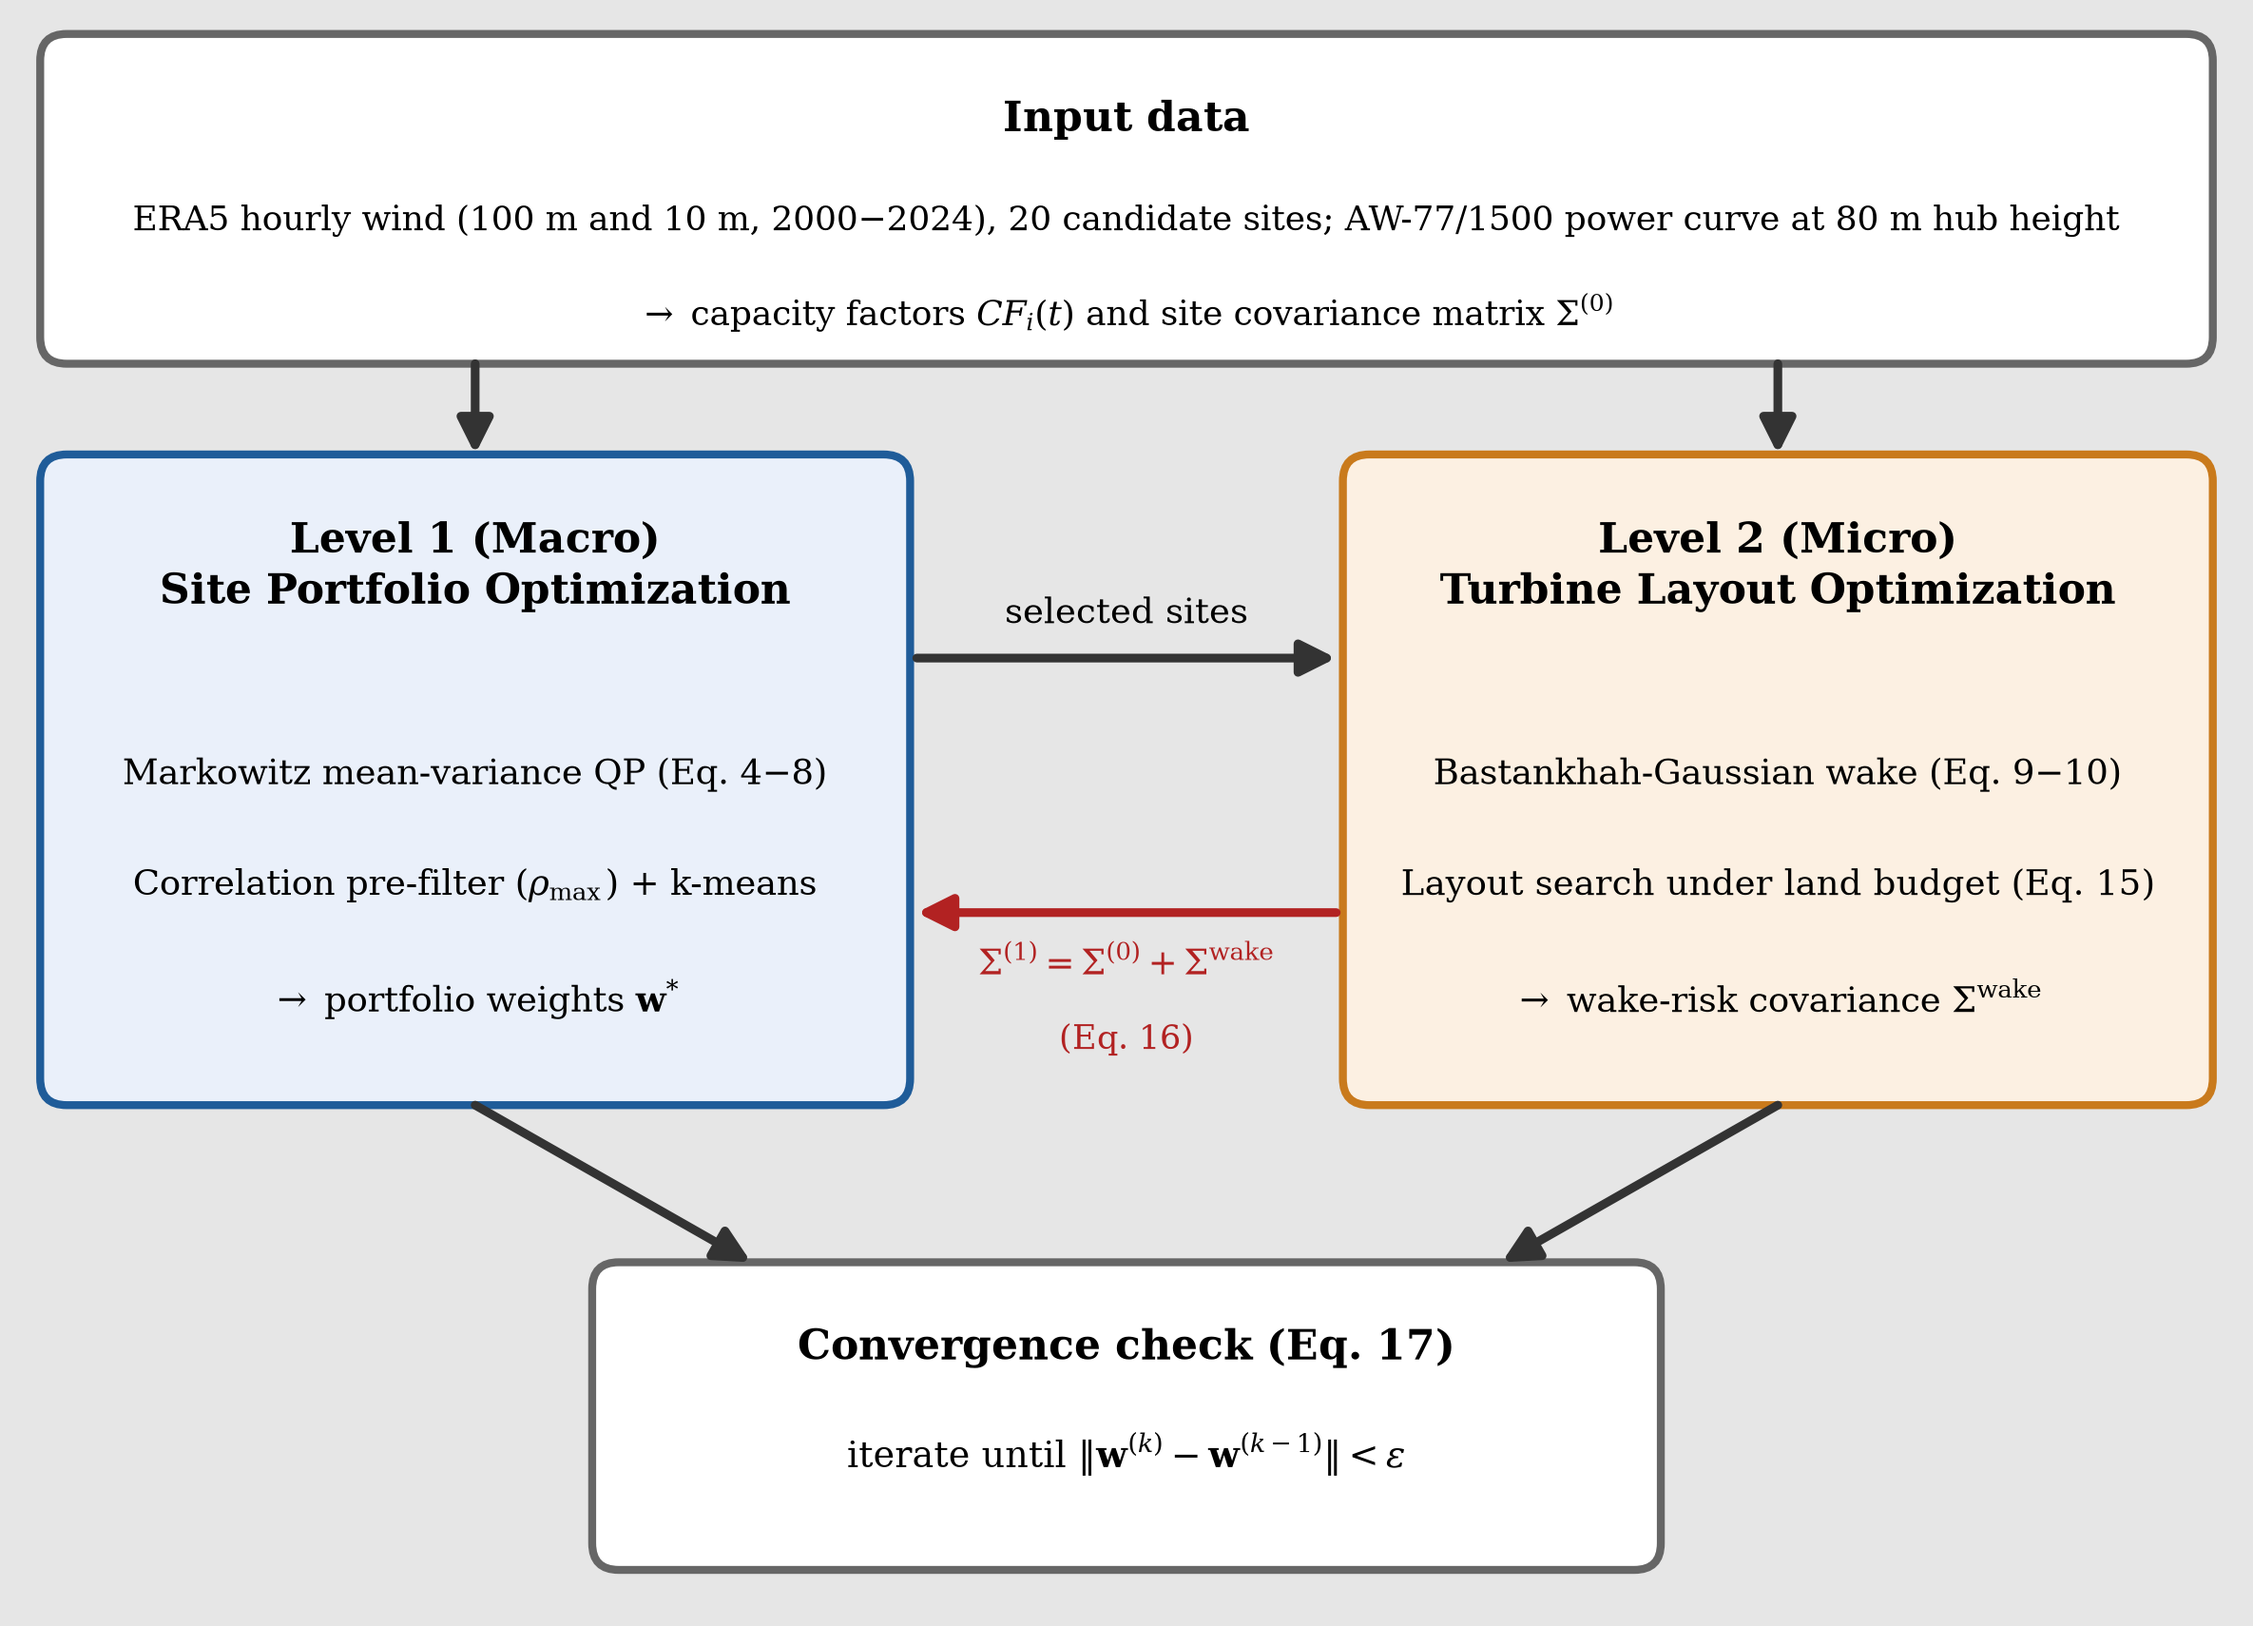
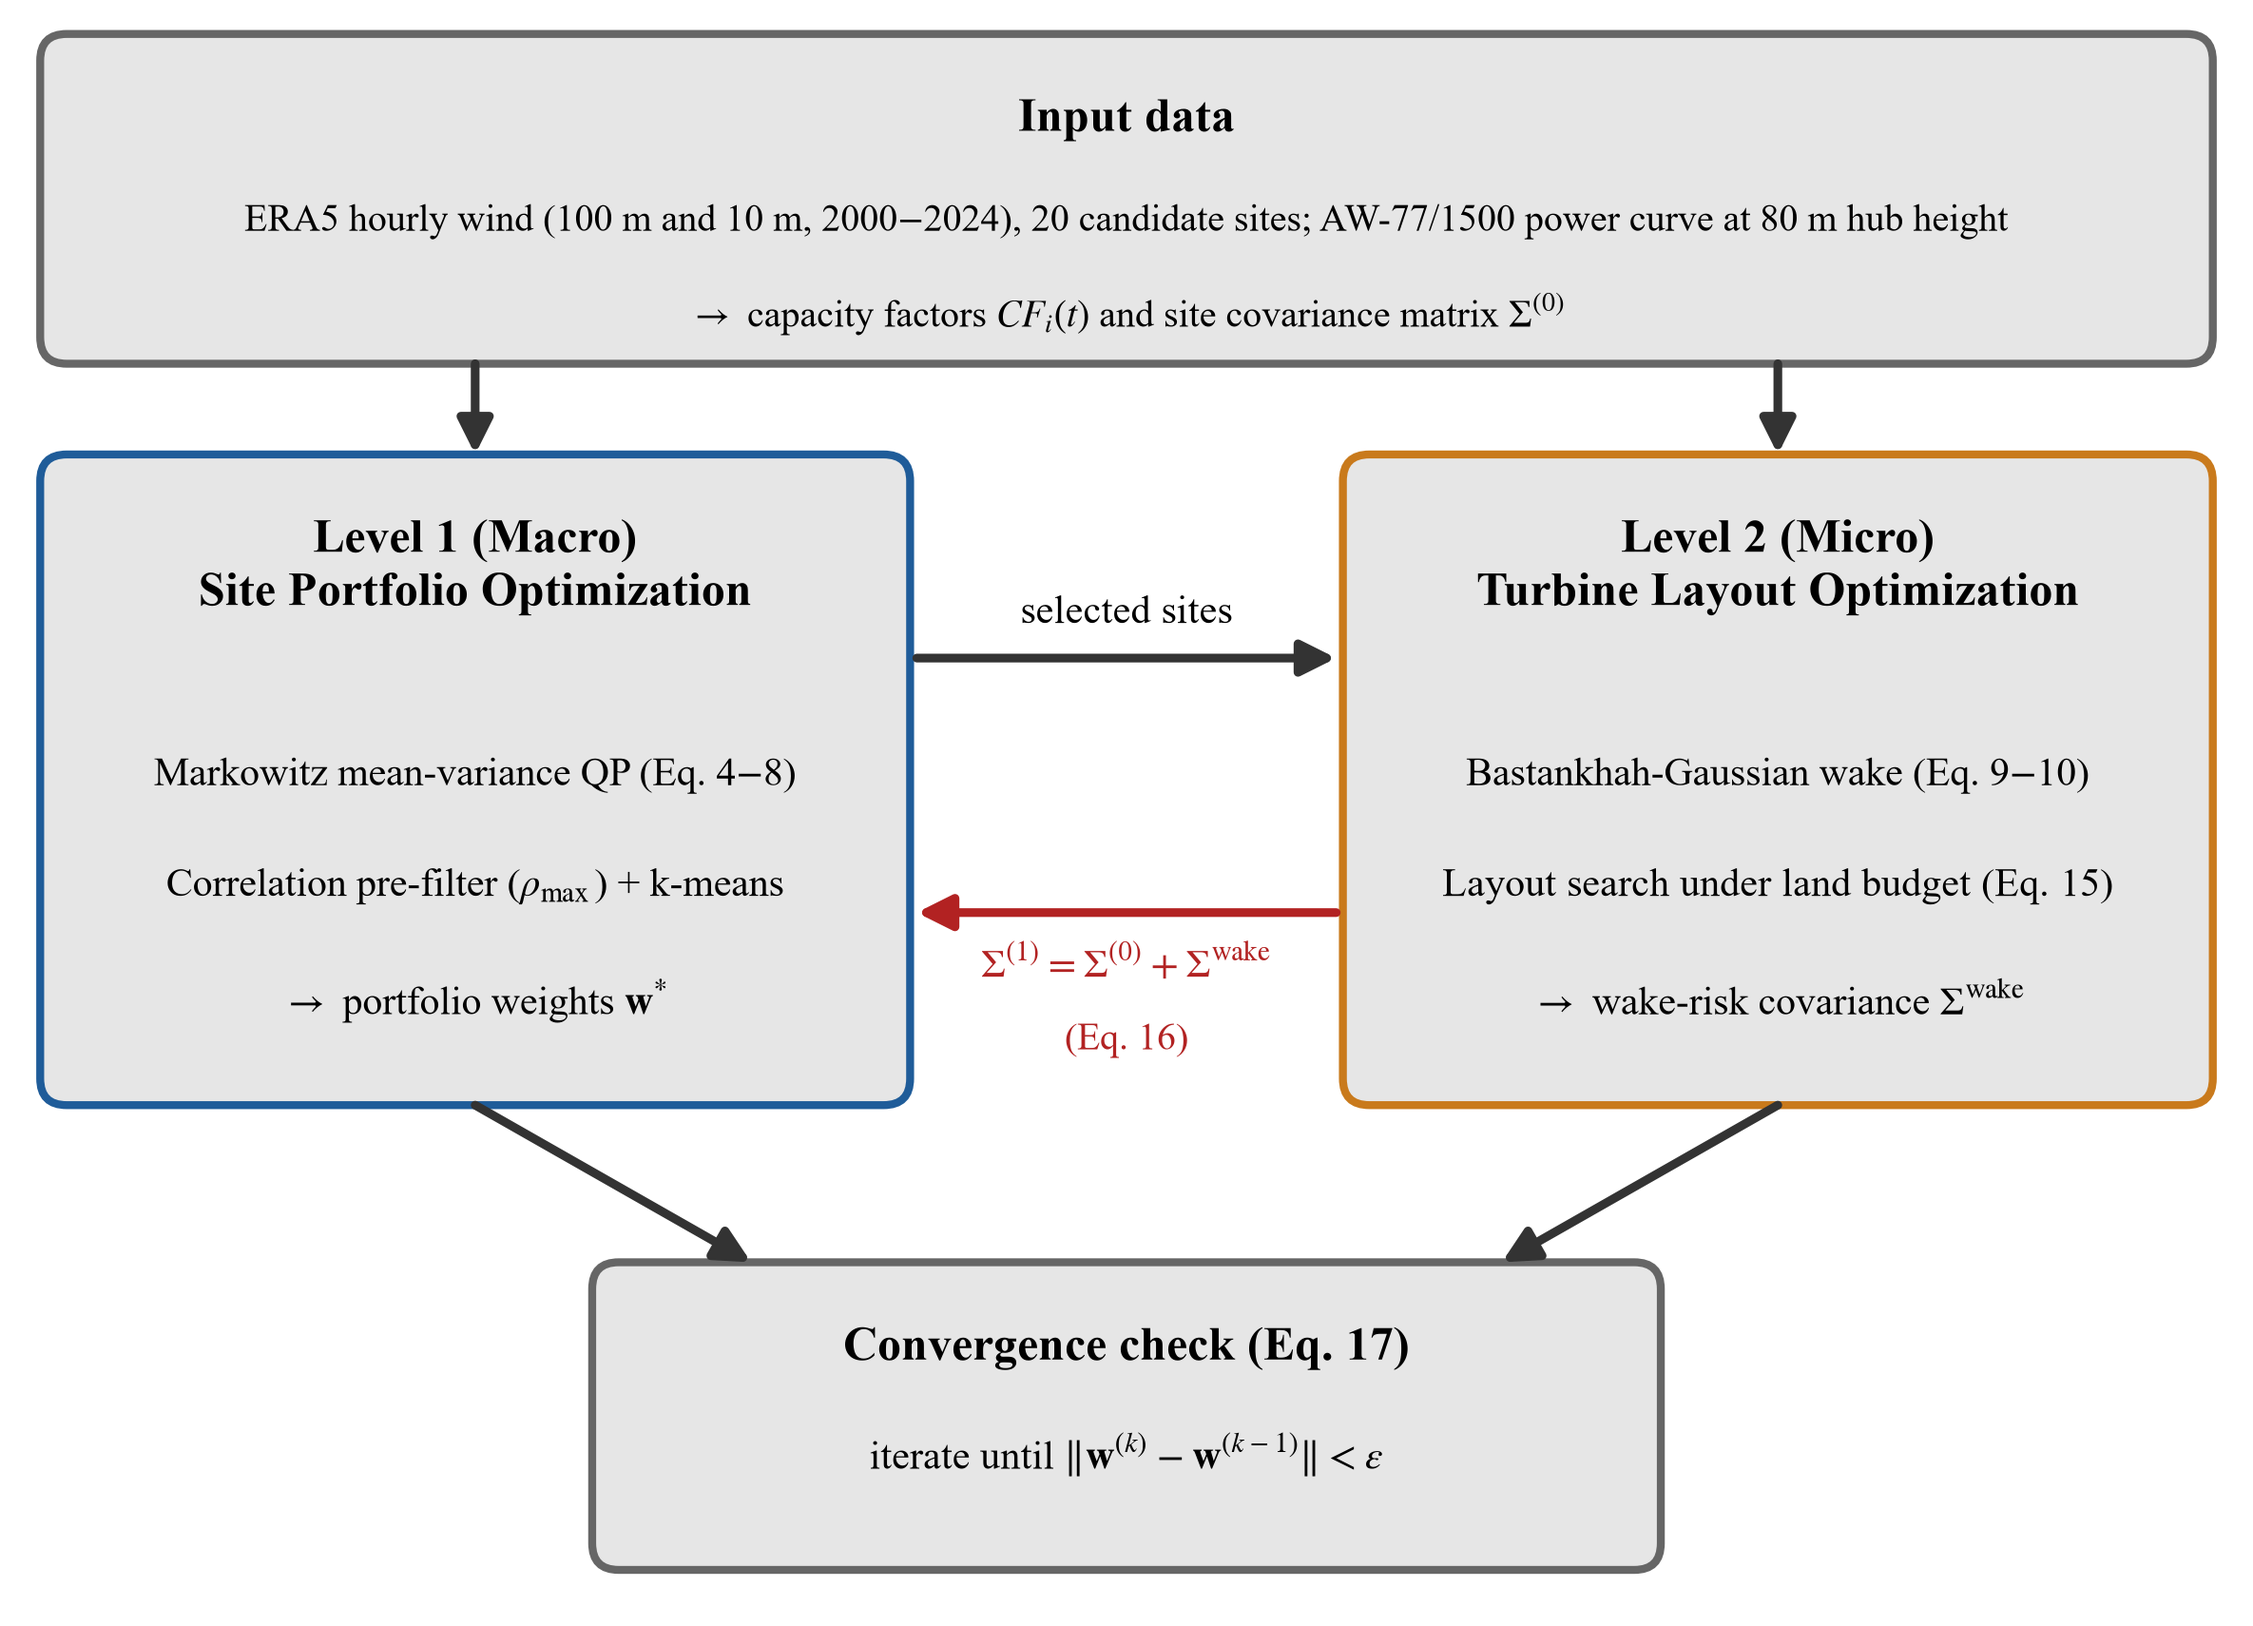
Figure 1: white background, gray blocks, Times New Roman

diff --git a/src/make_figure1.py b/src/make_figure1.py
@@ -5,12 +5,13 @@ matplotlib.use("Agg")
 import matplotlib.pyplot as plt
 from matplotlib.patches import FancyBboxPatch, FancyArrowPatch
 
-plt.rcParams.update({"font.family": "DejaVu Serif", "mathtext.fontset": "dejavuserif"})
+plt.rcParams.update({"font.family": "Times New Roman", "mathtext.fontset": "stix"})
 
 FIG_DIR = os.path.join(os.path.dirname(__file__), "..", "figures")
 os.makedirs(FIG_DIR, exist_ok=True)
 
-BG = "#E6E6E6"  # light gray background
+BG = "#FFFFFF"      # white figure background
+BLOCK = "#E6E6E6"   # light gray blocks
 fig, ax = plt.subplots(figsize=(7.9, 5.7), facecolor=BG)
 ax.set_facecolor(BG)
 fig.subplots_adjust(left=0.01, right=0.99, bottom=0.01, top=0.99)
@@ -19,7 +20,7 @@ ax.set_ylim(0, 7.2)
 ax.axis("off")
 
 
-def box(x, y, w, h, fc, ec, title, lines, title_size=10.5, line_size=8.8, start=1.35, step=0.5):
+def box(x, y, w, h, fc, ec, title, lines, title_size=12, line_size=10, start=1.35, step=0.5):
     ax.add_patch(FancyBboxPatch((x, y), w, h, boxstyle="round,pad=0.02,rounding_size=0.12",
                                 fc=fc, ec=ec, lw=2))
     ax.text(x + w / 2, y + h - 0.25, title, ha="center", va="top", fontsize=title_size,
@@ -34,18 +35,18 @@ def arrow(p0, p1, color="#333333", lw=2.2):
 
 
 # Inputs
-box(0.1, 5.65, 9.8, 1.45, "#FFFFFF", "#666666", "Input data",
+box(0.1, 5.65, 9.8, 1.45, BLOCK, "#666666", "Input data",
     [r"ERA5 hourly wind (100 m and 10 m, 2000$-$2024), 20 candidate sites; "
      r"AW-77/1500 power curve at 80 m hub height",
      r"$\rightarrow$ capacity factors $CF_i(t)$ and site covariance matrix $\Sigma^{(0)}$"],
-    start=0.75, step=0.4, line_size=8.6)
+    start=0.75, step=0.4, line_size=9.6)
 
 # Level 1 and Level 2
-box(0.1, 2.3, 3.9, 2.9, "#EAF0FA", "#1F5C99", "Level 1 (Macro)\nSite Portfolio Optimization",
+box(0.1, 2.3, 3.9, 2.9, BLOCK, "#1F5C99", "Level 1 (Macro)\nSite Portfolio Optimization",
     [r"Markowitz mean-variance QP (Eq. 4$-$8)",
      r"Correlation pre-filter ($\rho_{\max}$) + k-means",
      r"$\rightarrow$ portfolio weights $\mathbf{w}^{*}$"])
-box(6.0, 2.3, 3.9, 2.9, "#FCF0E2", "#C97A1C", "Level 2 (Micro)\nTurbine Layout Optimization",
+box(6.0, 2.3, 3.9, 2.9, BLOCK, "#C97A1C", "Level 2 (Micro)\nTurbine Layout Optimization",
     [r"Bastankhah-Gaussian wake (Eq. 9$-$10)",
      r"Layout search under land budget (Eq. 15)",
      r"$\rightarrow$ wake-risk covariance $\Sigma^{\mathrm{wake}}$"])
@@ -56,18 +57,18 @@ arrow((7.95, 5.63), (7.95, 5.22))
 
 # Level 1 -> Level 2 (selected sites)
 arrow((4.05, 4.3), (5.95, 4.3))
-ax.text(5.0, 4.42, "selected sites", ha="center", va="bottom", fontsize=8.8)
+ax.text(5.0, 4.42, "selected sites", ha="center", va="bottom", fontsize=10)
 
 # Level 2 -> Level 1 (risk feedback)
 arrow((5.95, 3.15), (4.05, 3.15), color="#B22222")
 ax.text(5.0, 3.02, r"$\Sigma^{(1)}=\Sigma^{(0)}+\Sigma^{\mathrm{wake}}$", ha="center", va="top",
-        fontsize=8.8, color="#B22222")
-ax.text(5.0, 2.65, "(Eq. 16)", ha="center", va="top", fontsize=8.4, color="#B22222")
+        fontsize=10, color="#B22222")
+ax.text(5.0, 2.65, "(Eq. 16)", ha="center", va="top", fontsize=9.5, color="#B22222")
 
 # Convergence
-box(2.6, 0.2, 4.8, 1.35, "#FFFFFF", "#666666", "Convergence check (Eq. 17)",
+box(2.6, 0.2, 4.8, 1.35, BLOCK, "#666666", "Convergence check (Eq. 17)",
     [r"iterate until $\|\mathbf{w}^{(k)}-\mathbf{w}^{(k-1)}\|<\epsilon$"],
-    start=0.75, line_size=9.2)
+    start=0.75, line_size=10.2)
 arrow((2.05, 2.28), (3.3, 1.57))
 arrow((7.95, 2.28), (6.7, 1.57))
 
